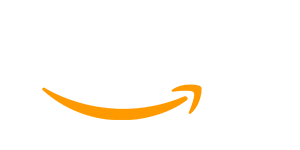
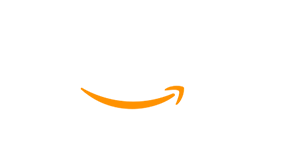
sponsors page is ready

Changed region(s): [[0.12, 0.56, 0.69, 0.8]]

diff --git a/index.html b/index.html
@@ -322,45 +322,45 @@
 					</div>
 				</div>
 				<div class="row">
-					<div class="col-lg-3 col-md-3 col-xs-12" id="sponsor_test">
-						<!-- <img src="devassets/img/tech.png" alt="speaker1" id="testing_sponsors" style=""> -->
+					<div class="col-lg-3 col-md-3 col-sm-6 col-xs-12" id="sponsor_test">
+						 <img src="devassets/img/amazon.png" alt="speaker1" id="testing_sponsors"> 
 					</div>
 					<div class="col-lg-3 col-md-3 col-sm-6 col-xs-12" id="sponsor_test">
 						<img src="devassets/img/microsoft.png" alt="speaker1" id="testing_sponsors" class="img-resposive">
 					</div>
 					<div class="col-lg-3 col-md-3 col-sm-6 col-xs-12" id="sponsor_test">
-						<img src="devassets/img/amazon.png" alt="speaker1" id="testing_sponsors" style="margin-top: 5%" class="img-resposive">
+						<img src="devassets/img/nvidia.png" alt="speaker1" id="testing_sponsors" class="img-resposive">
 					</div>
-					<div class="col-lg-3 col-md-3 col-xs-12" id="sponsor_test">
-						<!-- <img src="devassets/img/hackerearth.png" alt="speaker1" id="testing_sponsors"> -->
+					<div class="col-lg-3 col-md-3 col-sm-6 col-xs-12" id="sponsor_test">
+						<img src="devassets/img/internshala.png" alt="speaker1" id="testing_sponsors">
 					</div>
 				</div>
 				<div class="row">
 					<div class="col-lg-3 col-md-3 col-sm-6 col-xs-12" id="sponsor_test">
-						<img src="devassets/img/amazon_alexa.png" alt="speaker1" id="testing_sponsors" class="img-resposive">
+						<img src="devassets/img/eride.png" alt="speaker1" id="testing_sponsors" class="img-resposive">
+					</div>
+					<div class="col-lg-3 col-md-3 col-sm-6 col-xs-12" id="sponsor_test">
+						<img src="devassets/img/coding_ninja.png" alt="speaker1" id="testing_sponsors" class="img-resposive">
+					</div>
+					<div class="col-lg-3 col-md-3 col-sm-6 col-xs-12" id="sponsor_test">
+						<img src="devassets/img/bytecode.png" alt="speaker1" id="testing_sponsors" class="img-resposive">
+					</div>
+					<div class="col-lg-3 col-md-3 col-sm-6 col-xs-12" id="sponsor_test">
+						<img src="	devassets/img/hackerearth.png" alt="speaker1" id="testing_sponsors" class="img-resposive">
+					</div>
+				</div>
+				<div class="row" style="padding-bottom:10%">
+					<div class="col-lg-3 col-md-3 col-sm-6 col-xs-12" id="sponsor_test">
+						<img src="devassets/img/hasura.png" alt="speaker1" id="testing_sponsors" class="img-resposive">
 					</div>
 					<div class="col-lg-3 col-md-3 col-sm-6 col-xs-12" id="sponsor_test">
 						<img src="devassets/img/tech.png" alt="speaker1" id="testing_sponsors" class="img-resposive">
 					</div>
 					<div class="col-lg-3 col-md-3 col-sm-6 col-xs-12" id="sponsor_test">
-						<img src="devassets/img/MyGate.png" alt="speaker1" id="testing_sponsors" class="img-resposive">
+						<img src="devassets/img/mygate.png" alt="speaker1" id="testing_sponsors" class="img-resposive">
 					</div>
 					<div class="col-lg-3 col-md-3 col-sm-6 col-xs-12" id="sponsor_test">
-						<img src="	devassets/img/coding_ninja.png" alt="speaker1" id="testing_sponsors" class="img-resposive">
-					</div>
-				</div>
-				<div class="row" style="padding-bottom:10%">
-					<div class="col-lg-3 col-md-3 col-sm-6 col-xs-12" id="sponsor_test">
-						<img src="devassets/img/bytecode.png" alt="speaker1" id="testing_sponsors" class="img-resposive">
-					</div>
-					<div class="col-lg-3 col-md-3 col-sm-6 col-xs-12" id="sponsor_test">
-						<img src="devassets/img/sticker_mule.png" alt="speaker1" id="testing_sponsors" class="img-resposive">
-					</div>
-					<div class="col-lg-3 col-md-3 col-sm-6 col-xs-12" id="sponsor_test">
-						<img src="devassets/img/fisheye.png" alt="speaker1" id="testing_sponsors" style="margin-top: 7%" class="img-resposive">
-					</div>
-					<div class="col-lg-3 col-md-3 col-sm-6 col-xs-12" id="sponsor_test">
-						<img src="	devassets/img/hackerearth.png" alt="speaker1" id="testing_sponsors" class="img-resposive">
+						<img src="	devassets/img/amazonalexa.png" alt="speaker1" id="testing_sponsors" class="img-resposive">
 					</div>
 				</div>
 			</div>
